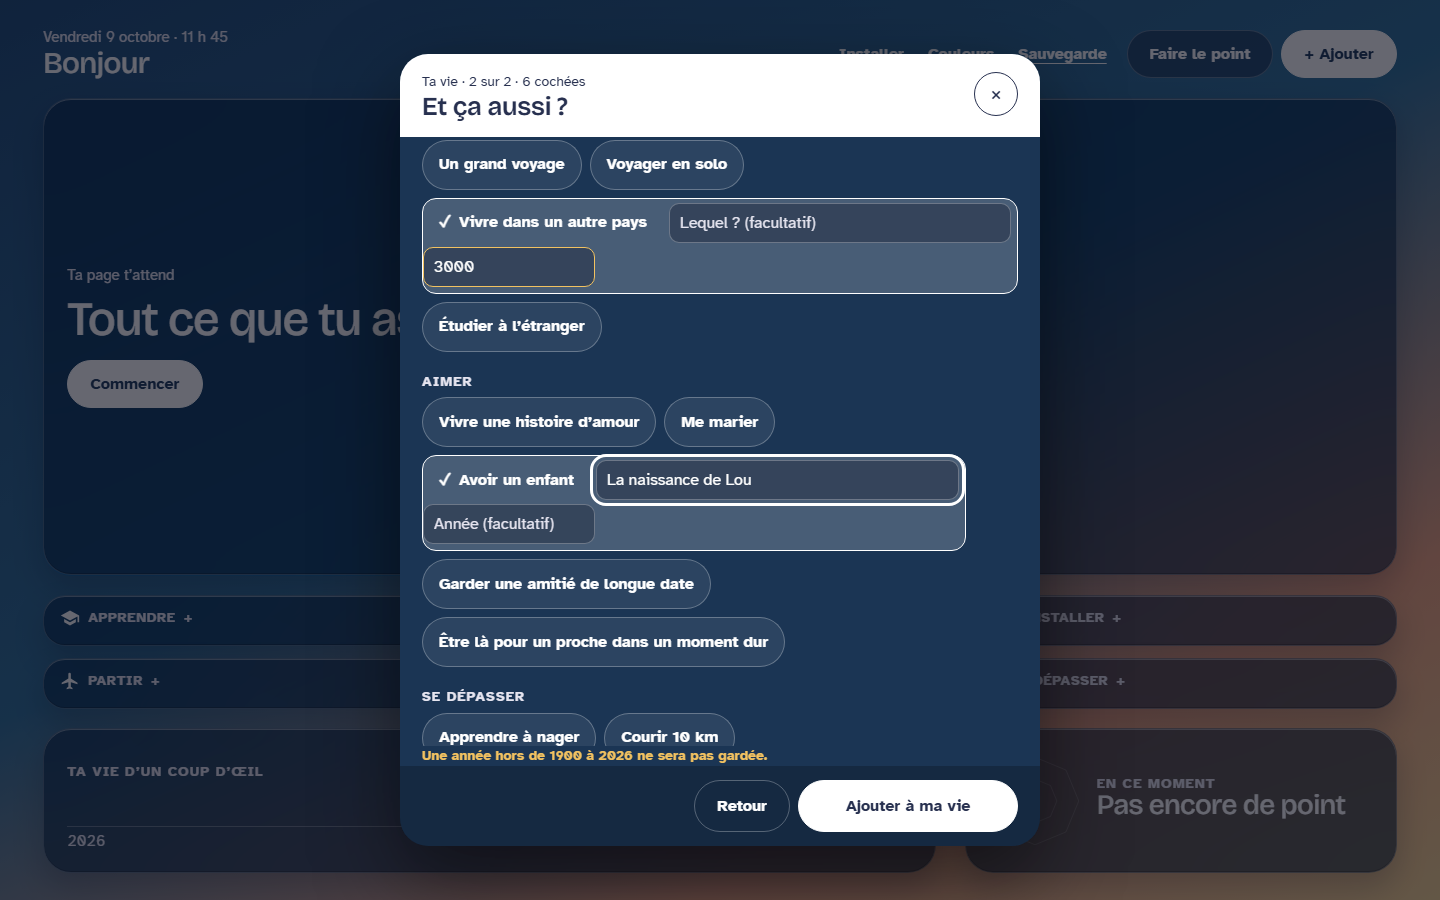
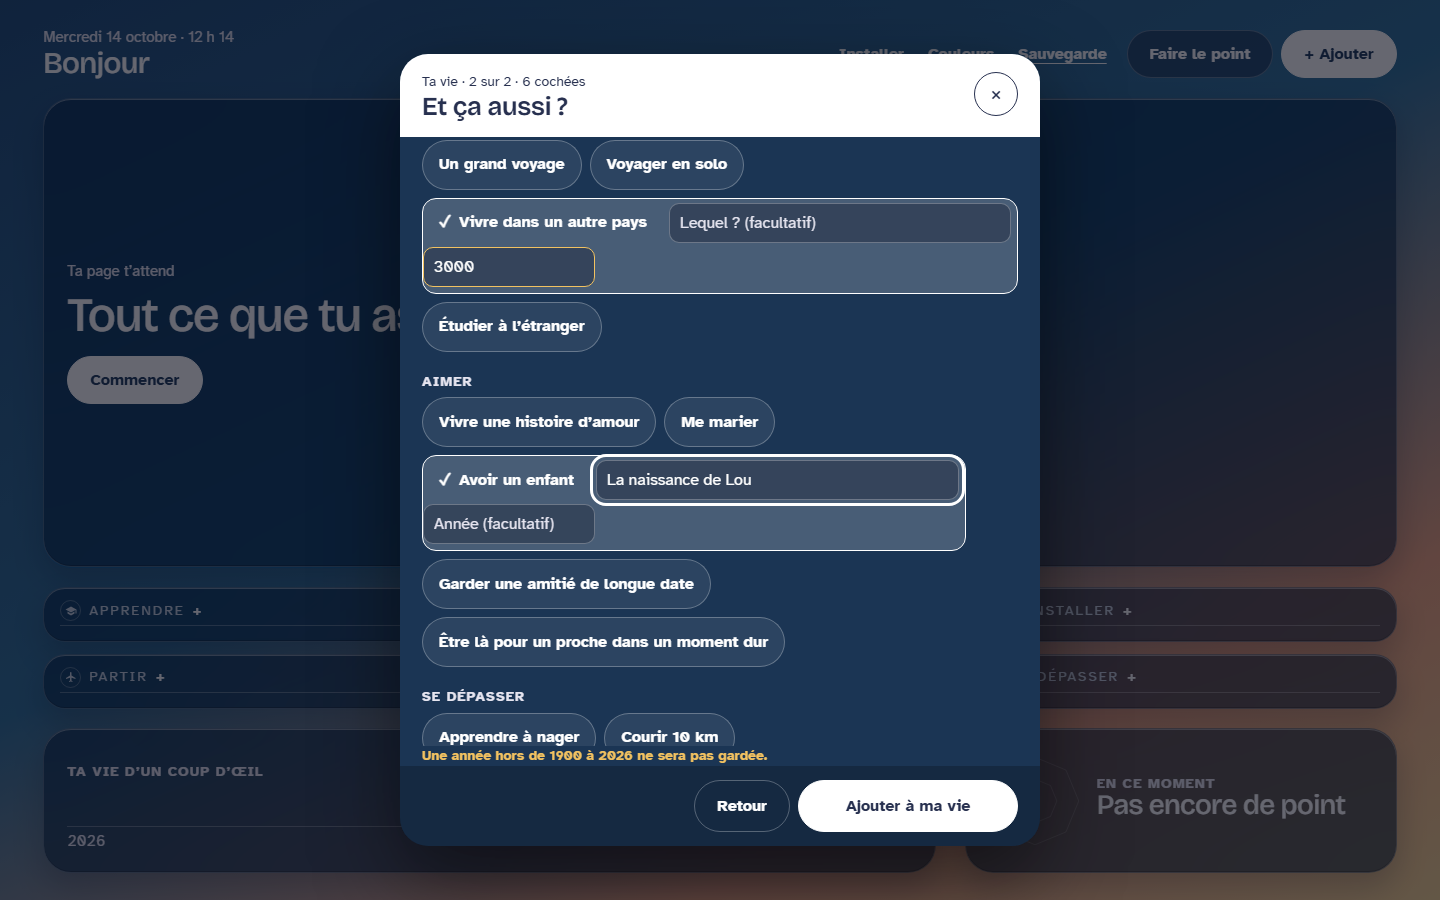
Trophées de vie : les titres de catégories ne ressemblent plus à des trophées
Même blanc, même gras, même taille et un pictogramme proche d'une coupe :
« Apprendre » se lisait comme un trophée. Le titre devient une étiquette
pâle, fine et espacée, posée sur un filet, avec son pictogramme cerclé.

diff --git a/trophees-de-vie/js/app.js b/trophees-de-vie/js/app.js
@@ -4,10 +4,10 @@
 
 // Le numéro suit celui d'index.html : Pages garde un fichier dix minutes, et sans lui
 // un nouvel app.js pourrait charger une ancienne configuration.
-import { ouvrir, demanderPersistance } from './stockage.js?v=16';
-import { NIVEAUX, CATEGORIES, REUSSITES, CATALOGUE, BADGE_TOUT } from './config/vie.js?v=16';
-import { DOMAINES, METEOS, ELANS, MOIS, JOURS } from './config/domaines.js?v=16';
-import { lire, definition, rarete, medaille, dejaFaites, comptes, parCategorie, hautsFaits, plusRares, badges, ruban, decennies, souvenirDuJour, dernierPoint, pointDavant, phraseRoue } from './coeur.js?v=16';
+import { ouvrir, demanderPersistance } from './stockage.js?v=17';
+import { NIVEAUX, CATEGORIES, REUSSITES, CATALOGUE, BADGE_TOUT } from './config/vie.js?v=17';
+import { DOMAINES, METEOS, ELANS, MOIS, JOURS } from './config/domaines.js?v=17';
+import { lire, definition, rarete, medaille, dejaFaites, comptes, parCategorie, hautsFaits, plusRares, badges, ruban, decennies, souvenirDuJour, dernierPoint, pointDavant, phraseRoue } from './coeur.js?v=17';
 
 const NS = 'http://www.w3.org/2000/svg';
 const $ = (id) => document.getElementById(id);
@@ -136,7 +136,9 @@ function dessinerChiffres() {
     const badge = gagnes.find((g) => g.id === cat.id);
     const picto = el('span', `pi pi-${cat.id}`);
     picto.setAttribute('aria-hidden', 'true');
-    tete.append(picto, el('span', 'cat-n', cat.nom), el('span', 'nb', n ? String(n) : '+'));
+    const rond = el('span', 'rond');
+    rond.append(picto);
+    tete.append(rond, el('span', 'cat-n', cat.nom), el('span', 'nb', n ? String(n) : '+'));
     if (badge) tete.append(el('span', 'badge', badge.nom));
     const liste = el('span', 'cat-l');
     for (const t of plusRares(cat.trophees, montres)) {

diff --git a/trophees-de-vie/css/app.css b/trophees-de-vie/css/app.css
@@ -400,3 +400,17 @@ h1{font-size:30px}
 /* v16 : installer */
 .pas{margin:0;padding:0;list-style:none;display:grid;gap:12px}
 @media (max-width:700px){ #btn-installer{grid-area:top;justify-self:end;align-self:center;margin:0;min-height:44px;padding:0 16px;border:1.5px solid var(--line);border-radius:22px;text-decoration:none;background:color-mix(in srgb,var(--nuit) 72%,transparent)} }
+
+/* v17 : l'en-tête d'une catégorie ne doit pas ressembler à un trophée. Il devient une
+   étiquette : plus petit en apparence, espacé, sans gras, plus pâle, posé sur un filet ;
+   le pictogramme est cerclé. Les trophées dessous restent en blanc et en gras. */
+.cat-t{font-weight:400;color:#C8D2E0;padding-bottom:5px;margin-bottom:1px;border-bottom:1px solid var(--line)}
+.cat-n{letter-spacing:.14em;font-size:14px}
+.cat-t .nb{font-weight:700;color:var(--ink)}
+.cat-t .rond{flex:none;width:26px;height:26px;border:1.5px solid var(--line);border-radius:50%;display:grid;place-items:center}
+.cat-t .rond .pi{width:14px;height:14px;background:#C8D2E0}
+@media (min-height:1000px){ .cat-i{font-size:16px} }
+.cat-t .rond{width:24px;height:24px}
+@media (max-height:1000px){ .cat-t .rond{width:21px;height:21px} .cat-t .rond .pi{width:12px;height:12px} .cat-t{padding-bottom:4px} .cat-t .badge{line-height:1.25} }
+@media (max-height:1000px){ .cat{gap:3px} .cat-t{margin-bottom:0} }
+.cat-t{align-self:stretch}

diff --git a/trophees-de-vie/index.html b/trophees-de-vie/index.html
@@ -10,7 +10,7 @@
 <link rel="manifest" href="manifest.webmanifest">
 <link rel="apple-touch-icon" href="icons/icone-192.png">
 <link rel="preload" href="polices/bricolage.woff2" as="font" type="font/woff2" crossorigin>
-<link rel="stylesheet" href="css/app.css?v=16">
+<link rel="stylesheet" href="css/app.css?v=17">
 </head>
 <body>
 <div class="page">
@@ -64,6 +64,6 @@
 </div>
 <div class="toast" id="toast" role="status" aria-live="polite"></div>
 
-<script type="module" src="js/app.js?v=16"></script>
+<script type="module" src="js/app.js?v=17"></script>
 </body>
 </html>

diff --git a/trophees-de-vie/sw.js b/trophees-de-vie/sw.js
@@ -1,6 +1,6 @@
 // Service worker de Trophées de vie : la page s'ouvre hors ligne une fois installée.
 // VERSION suit le ?v= d'index.html et de js/app.js : les monter ensemble.
-const VERSION = 16;
+const VERSION = 17;
 
 const CACHE = `trophees-de-vie:app:v${VERSION}`;
 const PREFIXE = 'trophees-de-vie:app:';
